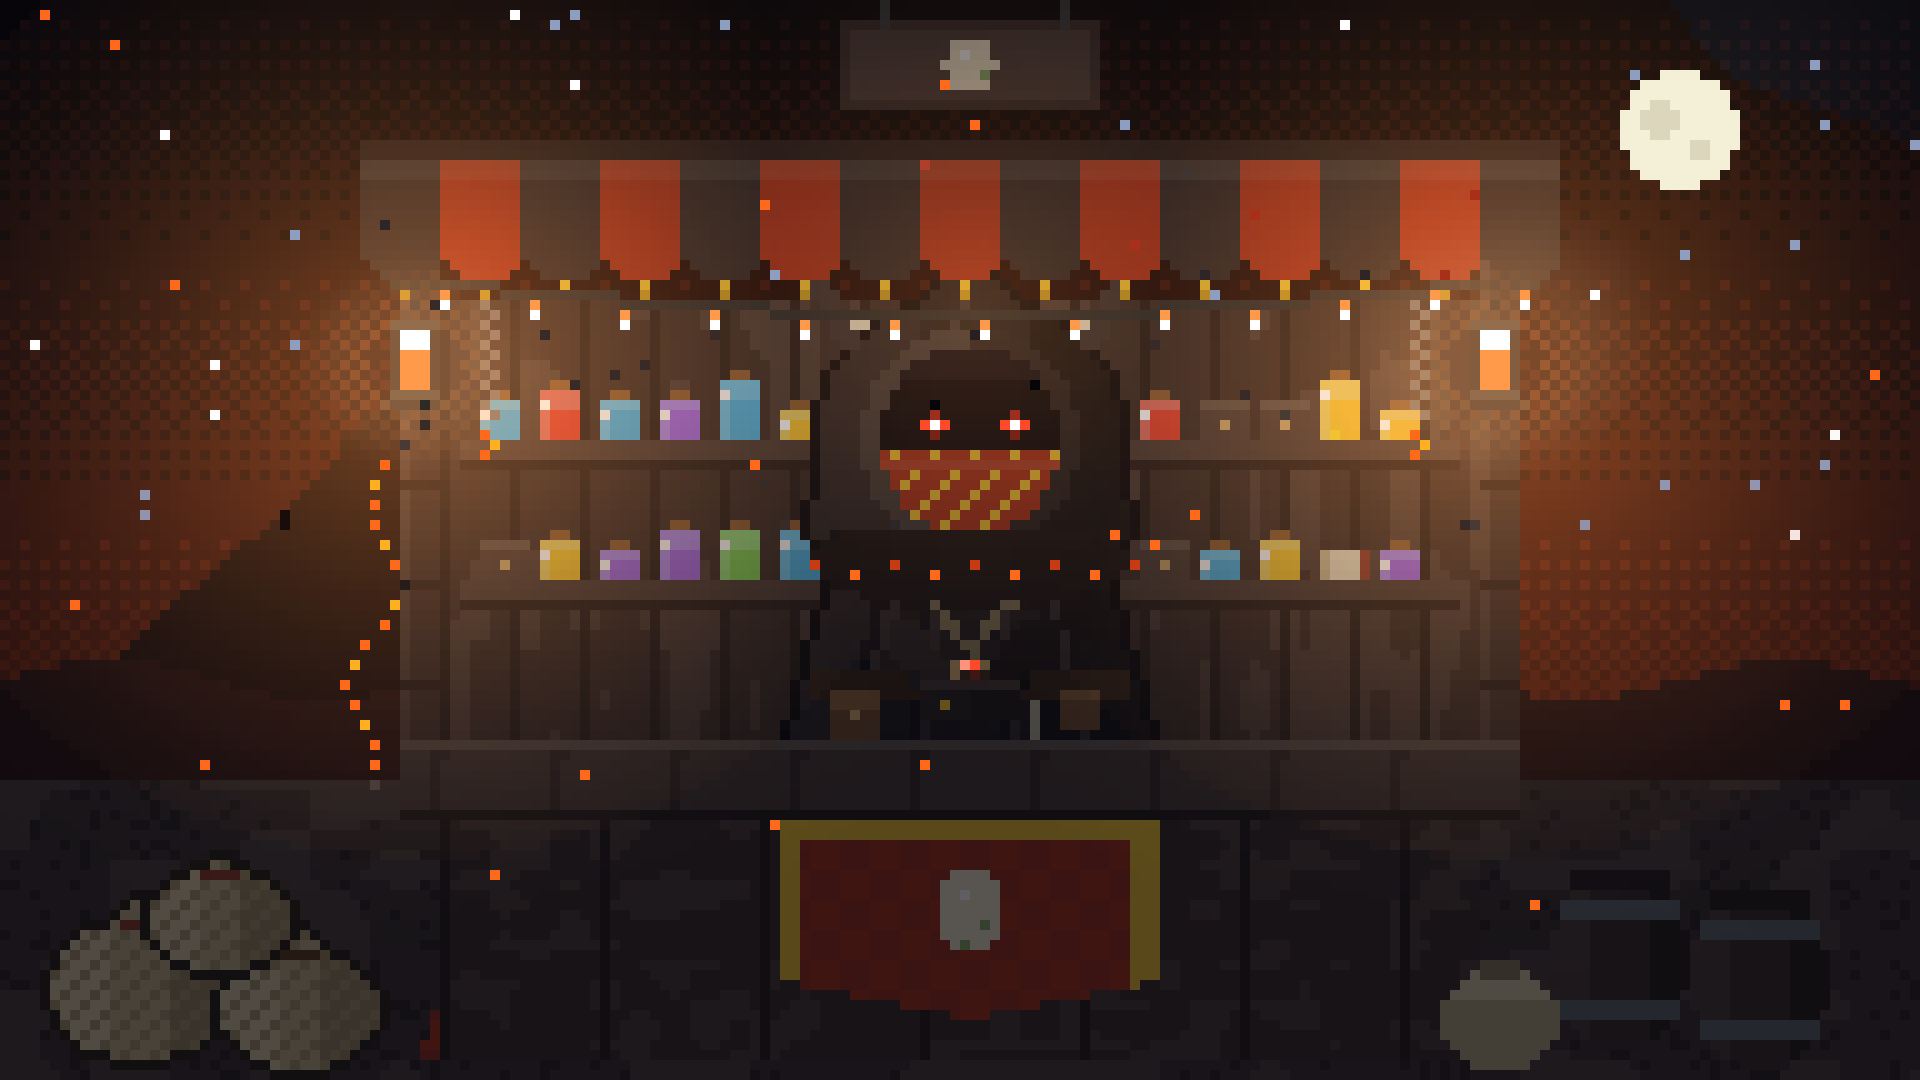
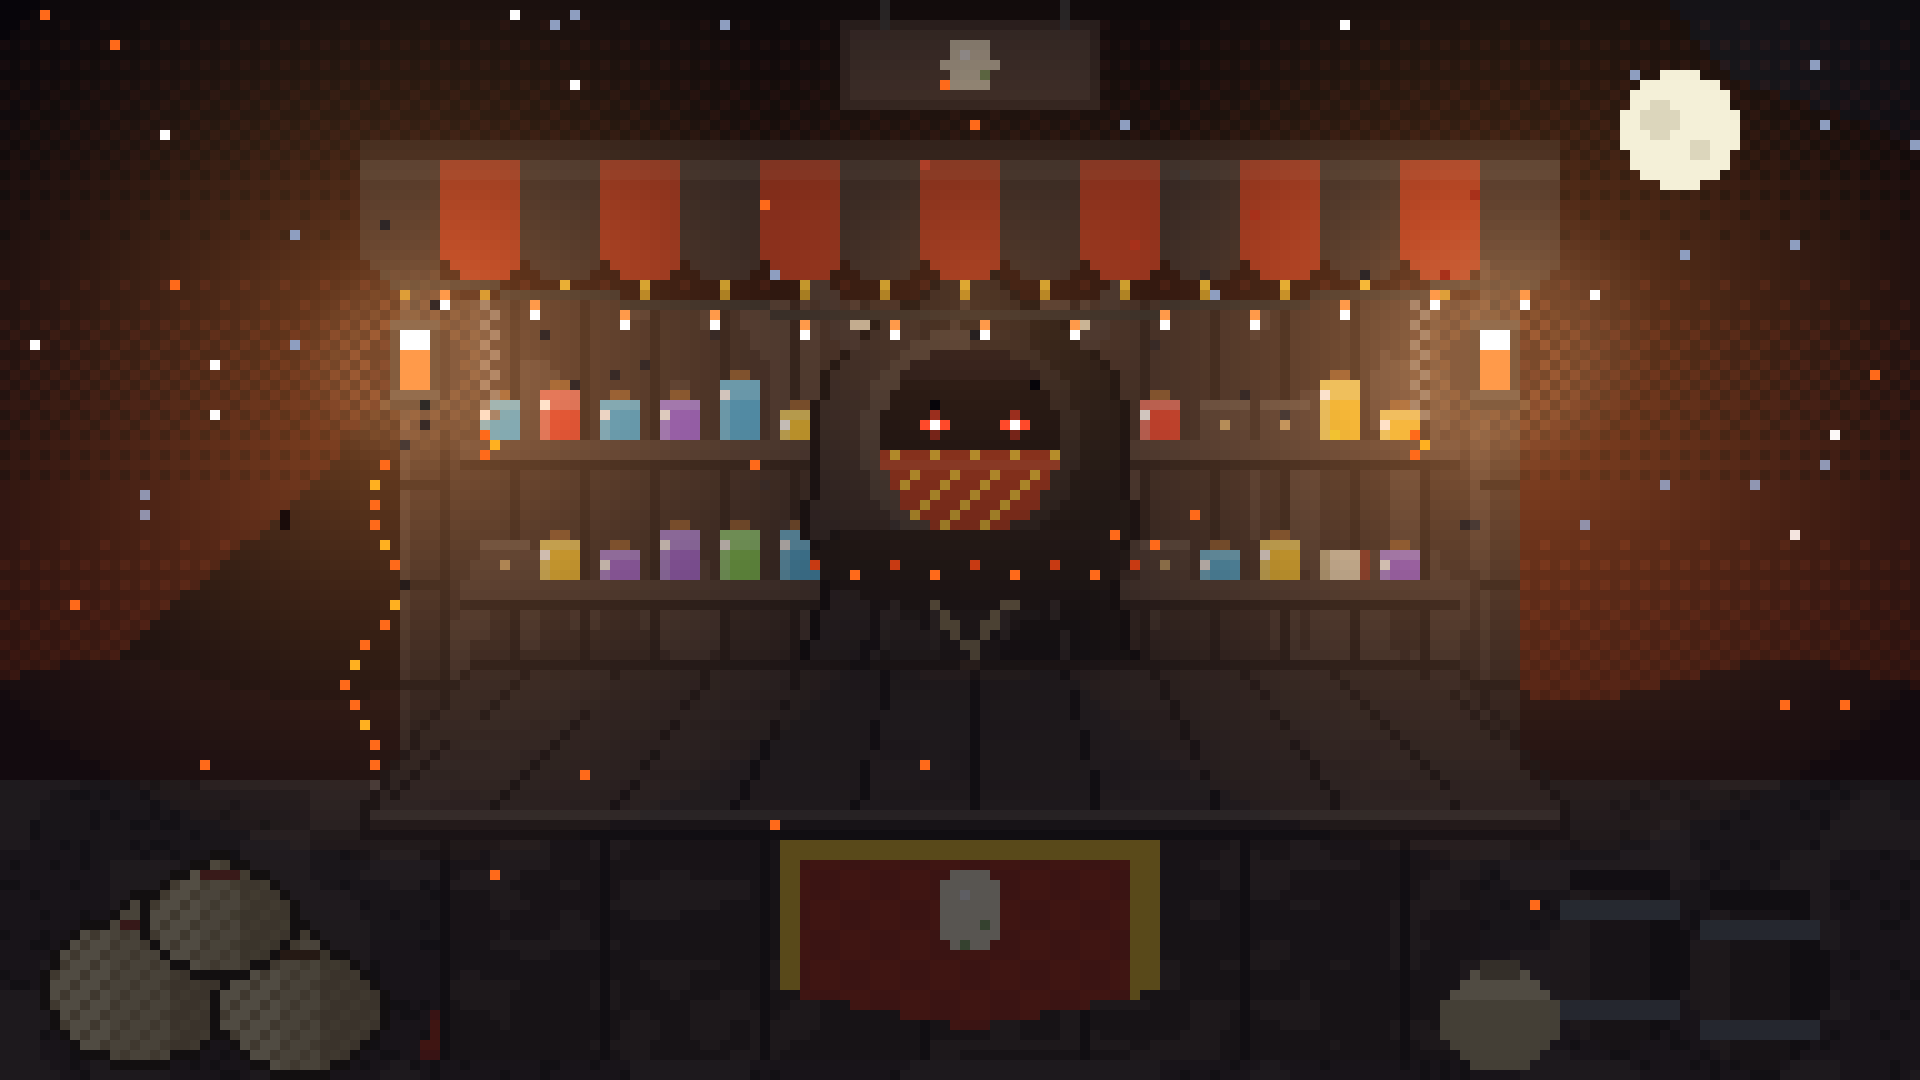
Marchands : plateau du comptoir en perspective (vu un peu d'en haut, comme les caisses), produits posés dessus

diff --git a/style.css b/style.css
@@ -699,7 +699,7 @@
   .dp-luck-pips span { width: 9px; height: 9px; border-radius: 50%; border: 1.5px solid rgba(255,255,255,0.7); }
   .dp-luck-pips span.on { background: #6fd36f; border-color: #6fd36f; }
   .dp-luck-hint { font-size: 11px; opacity: 0.75; }
-  .dp-merchant-table { position: absolute; left: 50%; bottom: 26.9%; transform: translateX(-50%); z-index: 2; display: flex; gap: calc(var(--u) * 0.6); padding: 0; flex-wrap: nowrap; justify-content: center; align-items: flex-end; width: 56%; }
+  .dp-merchant-table { position: absolute; left: 50%; bottom: 28%; transform: translateX(-50%); z-index: 2; display: flex; gap: calc(var(--u) * 0.6); padding: 0; flex-wrap: nowrap; justify-content: center; align-items: flex-end; width: 56%; }
   .dp-merchant-card { background: rgba(255,255,255,0.16); backdrop-filter: blur(5px); -webkit-backdrop-filter: blur(5px); border: 2px solid rgba(255,255,255,0.4); border-radius: 12px; padding: 14px; display: flex; flex-direction: column; align-items: center; gap: 6px; width: 168px; box-shadow: 0 6px 14px rgba(0,0,0,0.4); flex: none; }
   .dp-merchant-card { flex: none; width: calc(var(--u) * 10.2); padding: calc(var(--u) * 0.6) !important; border-radius: calc(var(--u) * 0.6) !important; gap: calc(var(--u) * 0.25) !important; }
   .dp-merchant-card .dp-egg-img { width: calc(var(--u) * 5.4); height: calc(var(--u) * 5.4); }
@@ -710,7 +710,7 @@
   .dp-merchant-card[onclick] { cursor: pointer; }
   .dp-merchant-card-selected { border-color: var(--accent); box-shadow: 0 0 0 3px var(--accent-soft), 0 6px 14px rgba(0,0,0,0.4); }
 
-  .dp-merchant-table-objects { justify-content: center; gap: calc(var(--u) * 0.6); bottom: 26.9%; }
+  .dp-merchant-table-objects { justify-content: center; gap: calc(var(--u) * 0.6); bottom: 28%; }
 
   .dp-crate-card { position: relative; width: calc(var(--u) * 8.6); height: calc(var(--u) * 7); flex: none; display: flex; align-items: flex-end; justify-content: center; }
   .dp-crate-card .dp-crate-img, .dp-crate-card .dp-object-icon { width: 100%; height: 100%; object-fit: contain; object-position: bottom; filter: drop-shadow(0 4px 8px rgba(0,0,0,0.5)); transition: transform .15s ease; }

diff --git a/index.html b/index.html
@@ -15,7 +15,7 @@
 <link rel="preconnect" href="https://fonts.googleapis.com">
 <link rel="preconnect" href="https://fonts.gstatic.com" crossorigin>
 <link href="https://fonts.googleapis.com/css2?family=Press+Start+2P&family=Public+Sans:wght@400;500;600;700;800&display=swap" rel="stylesheet">
-<link rel="stylesheet" href="style.css?v=66">
+<link rel="stylesheet" href="style.css?v=67">
 <link rel="stylesheet" href="https://cdn.jsdelivr.net/npm/katex@0.16.11/dist/katex.min.css">
 <script src="https://cdn.jsdelivr.net/npm/katex@0.16.11/dist/katex.min.js"></script>
 <script src="https://cdn.jsdelivr.net/npm/katex@0.16.11/dist/contrib/auto-render.min.js"></script>
@@ -44,16 +44,16 @@
 </div>
 <div id="app"></div>
 <div class="toast-stack" id="toastStack"></div>
-<script src="js/01-core.js?v=169"></script>
-<script src="js/02-ia.js?v=169"></script>
-<script src="js/03-podcast-methodo.js?v=169"></script>
-<script src="js/04-prepa.js?v=169"></script>
-<script src="js/05-data-dinopark.js?v=169"></script>
-<script src="js/06-pages.js?v=169"></script>
-<script src="js/07-editeur-outils.js?v=169"></script>
-<script src="js/08-fenetres.js?v=169"></script>
-<script src="js/09-app.js?v=169"></script>
-<script src="js/10-calendrier-aujourdhui.js?v=169"></script>
-<script src="js/11-routeur-demarrage.js?v=169"></script>
+<script src="js/01-core.js?v=170"></script>
+<script src="js/02-ia.js?v=170"></script>
+<script src="js/03-podcast-methodo.js?v=170"></script>
+<script src="js/04-prepa.js?v=170"></script>
+<script src="js/05-data-dinopark.js?v=170"></script>
+<script src="js/06-pages.js?v=170"></script>
+<script src="js/07-editeur-outils.js?v=170"></script>
+<script src="js/08-fenetres.js?v=170"></script>
+<script src="js/09-app.js?v=170"></script>
+<script src="js/10-calendrier-aujourdhui.js?v=170"></script>
+<script src="js/11-routeur-demarrage.js?v=170"></script>
 </body>
 </html>

diff --git a/js/01-core.js b/js/01-core.js
@@ -2,7 +2,7 @@
 // Studino — stockage, images, audio, schémas
 // Fichier chargé dans l'ordre par index.html : les fichiers partagent les mêmes variables globales.
 
-  var APP_VERSION = "13.7"; // +0.1 à chaque push sur GitHub, pour que l'utilisateur puisse vérifier qu'il a bien la dernière version
+  var APP_VERSION = "13.8"; // +0.1 à chaque push sur GitHub, pour que l'utilisateur puisse vérifier qu'il a bien la dernière version
   // Installation sur l'écran d'accueil : Chrome/Edge/Android proposent l'installation par un événement
   // qu'on garde pour le bouton des paramètres ; l'iPhone n'en a pas, on explique la marche à suivre.
   var installPromptEvent = null;

diff --git a/sw.js b/sw.js
@@ -2,7 +2,7 @@
 // Pages, scripts et styles : toujours la version en ligne d'abord (pour avoir les mises à jour),
 // la copie gardée seulement si le réseau ne répond pas. Images et sons : la copie gardée d'abord.
 // Les autres sites (IA Gemini, bibliothèques) ne passent pas par ici.
-var CACHE = "studino-v5"; // à changer quand les images changent : les anciennes copies en cache sont supprimées
+var CACHE = "studino-v6"; // à changer quand les images changent : les anciennes copies en cache sont supprimées
 
 self.addEventListener("install", function () { self.skipWaiting(); });
 self.addEventListener("activate", function (e) {
